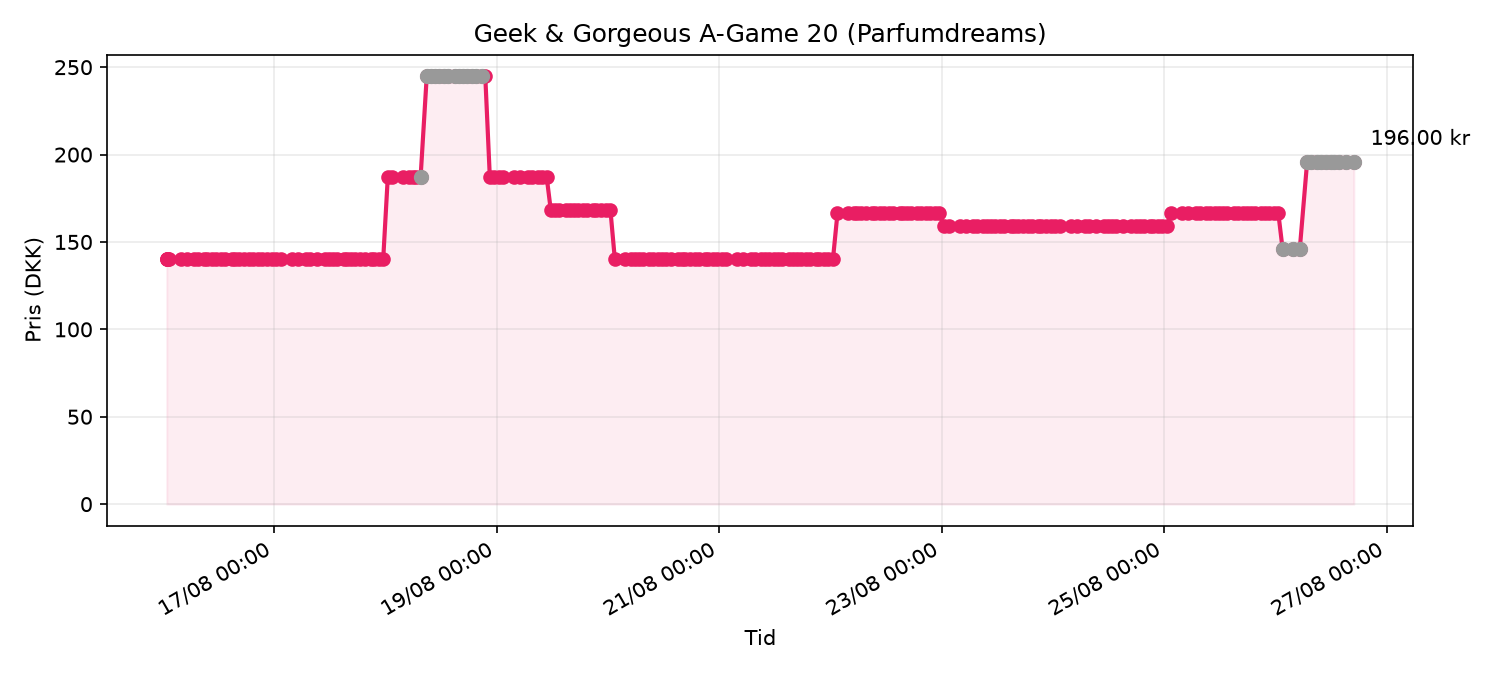
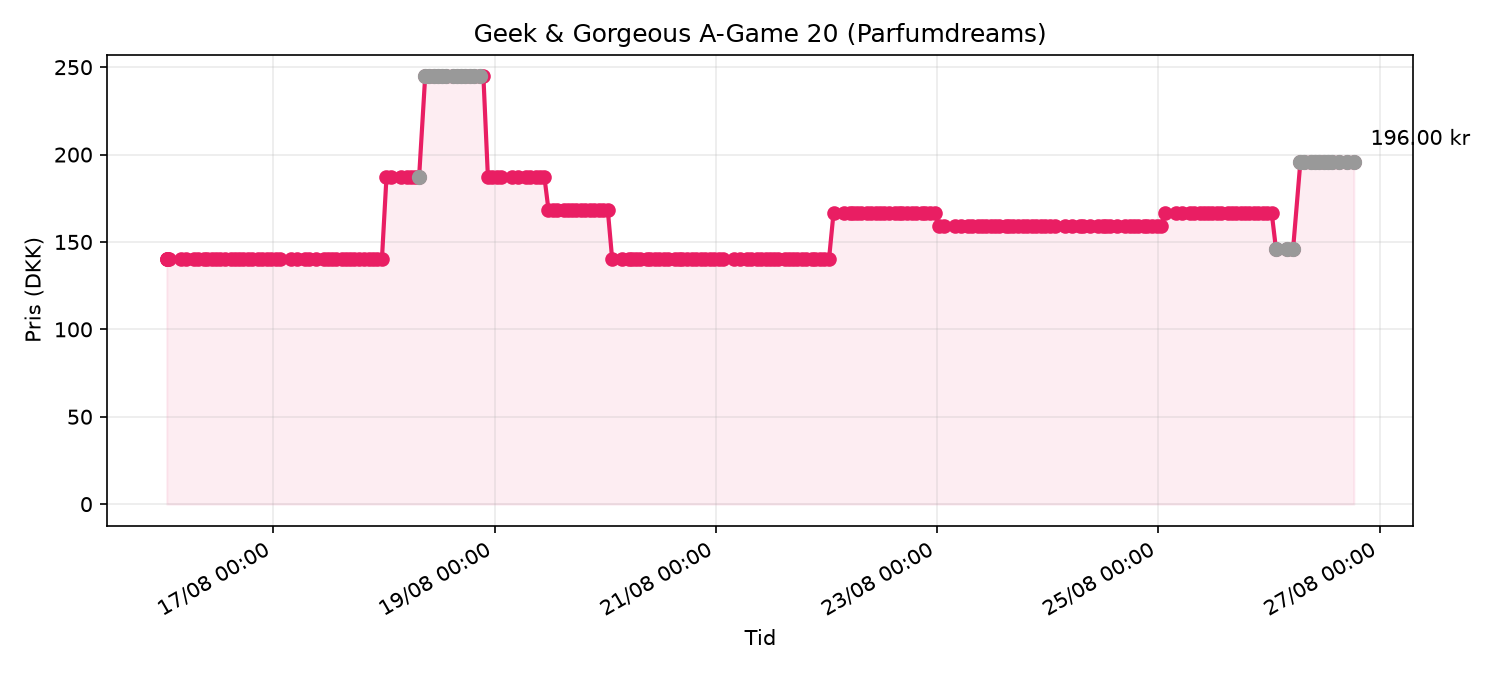
price check 2026-08-26T16:24Z

diff --git a/data/price_chart.html b/data/price_chart.html
@@ -13,7 +13,7 @@
 </head>
 <body>
   <h1>Geek & Gorgeous A-Game 20 (Parfumdreams)</h1>
-  <p class="meta">Senest tjekket: 26/08/2026 16:53 · Pris: <strong>196.00 kr</strong> · udsolgt</p>
+  <p class="meta">Senest tjekket: 26/08/2026 18:24 · Pris: <strong>196.00 kr</strong> · udsolgt</p>
   
   <p><a href="https://www.parfumdreams.dk/Geek-Gorgeous/Samlinger/101-aktive-stoffer/A-Game-20-Serum/index_137083.aspx?variation=221879">Åbn produkt på Parfumdreams</a></p>
   <img src="price_chart.png" alt="Prisgraf">
